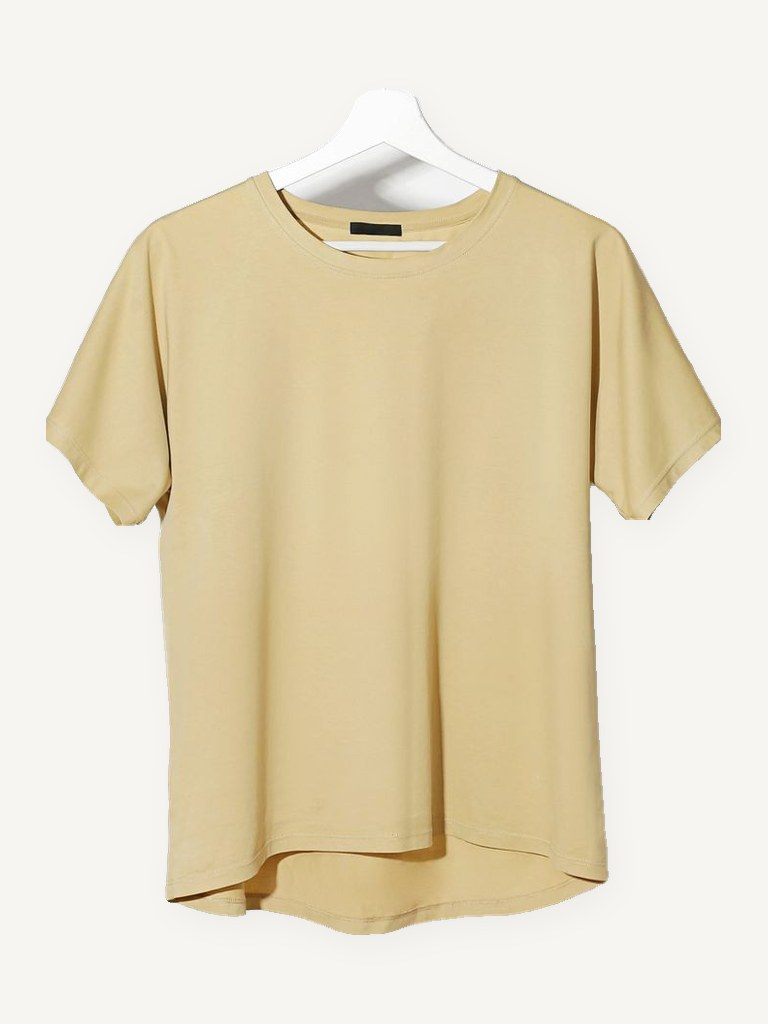
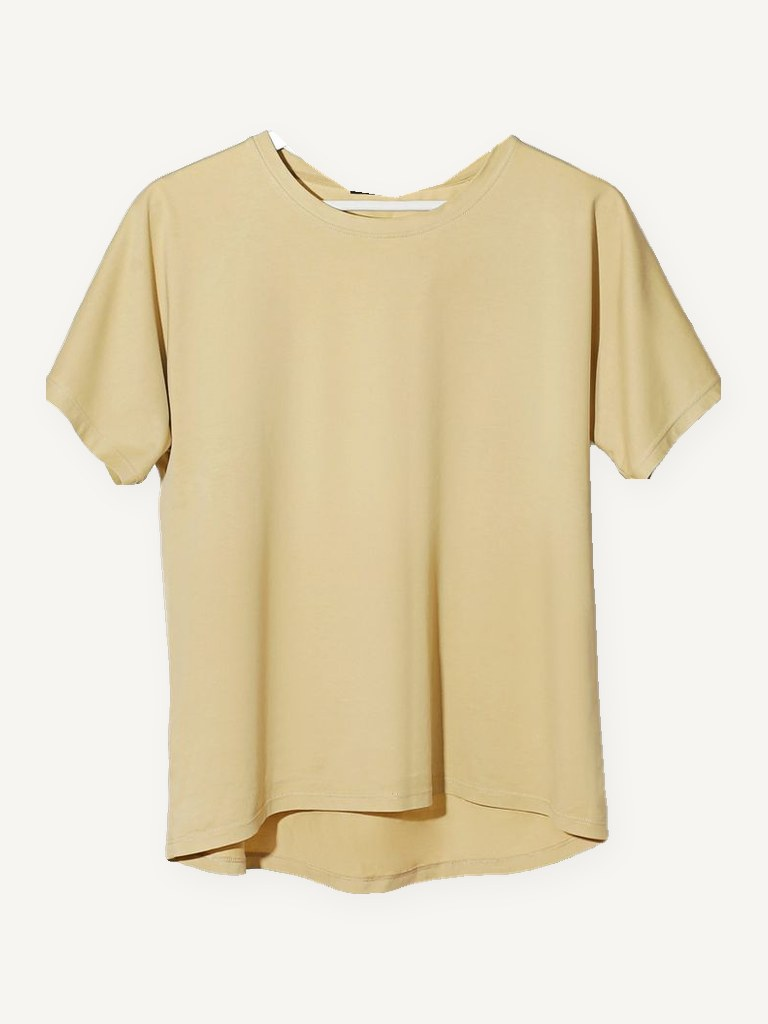
fix(catalog): borrar perchas e interior del escote en 5 prendas
- Campo erase en sources.json: polígonos que se quitan del recorte
- g03, g08, g12, g14 y g19 ya no muestran la percha; por el escote se
  ve la ropa de la persona en vez de la espalda de la prenda

diff --git a/services/ai-worker/scripts/prepare_catalog.py b/services/ai-worker/scripts/prepare_catalog.py
@@ -18,6 +18,7 @@ Campos de cada prenda en sources.json:
   anchors       correcciones a mano de puntos concretos, en fracciones del recorte
   kind          cómo se viste en la cámara si no es el de su categoría (p. ej. un short como "skirt")
   sleeve        "none" | "short" | "long" cuando la medida automática se equivoca
+  erase         polígonos [[x, y], …] en fracciones (tras `crop`) que se borran: percha, interior del escote
 
 Uso (desde services/ai-worker, con el extra `tools` instalado):
   python scripts/prepare_catalog.py ../../seed/photos [--only g01,g02] [--force]
@@ -30,7 +31,7 @@ import sys
 from pathlib import Path
 
 import numpy as np
-from PIL import Image, ImageFilter, ImageOps
+from PIL import Image, ImageDraw, ImageFilter, ImageOps
 
 sys.path.insert(0, str(Path(__file__).resolve().parents[1]))
 from src.garment_prep.anchors import anchors_of, kind_for  # noqa: E402
@@ -84,6 +85,19 @@ def plain_background_mask(image: Image.Image, threshold: int = 40) -> Image.Imag
     return Image.fromarray((mask * 255).astype(np.uint8), "L").filter(ImageFilter.GaussianBlur(1))
 
 
+def erased(alpha: Image.Image, polygons: list[list[list[float]]] | None) -> Image.Image:
+    """Borra a mano lo que el segmentador cuenta como tela: la percha y el interior del escote
+    (en la foto se ve la espalda de la prenda; puesta, ahí va el cuello o el pecho)."""
+    if not polygons:
+        return alpha
+    out = alpha.copy()
+    draw = ImageDraw.Draw(out)
+    w, h = out.size
+    for poly in polygons:
+        draw.polygon([(x * w, y * h) for x, y in poly], fill=0)
+    return out
+
+
 def cutout_of(image: Image.Image, source: dict, session) -> Image.Image:
     """Sujeto con canal alfa, recortado a su caja."""
     mode = source.get("mask", "rembg")
@@ -104,7 +118,7 @@ def cutout_of(image: Image.Image, source: dict, session) -> Image.Image:
 
         classes = source.get("classes") or classes_for(source["category"], source.get("style"))
         alpha = garment_mask(image, classes)
-    alpha = largest_component(alpha)
+    alpha = largest_component(erased(alpha, source.get("erase")))
     rgba = image.convert("RGBA")
     rgba.putalpha(alpha)
     box = alpha.point(lambda a: 255 if a > 24 else 0).getbbox()
